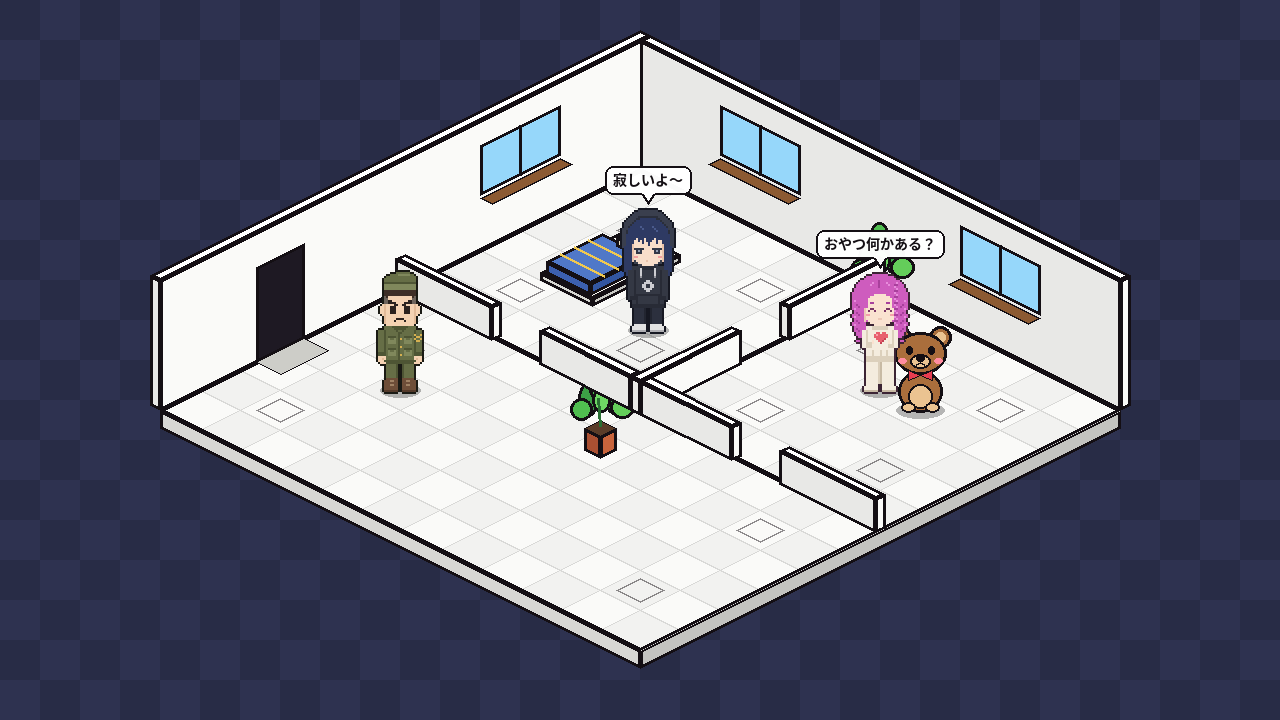
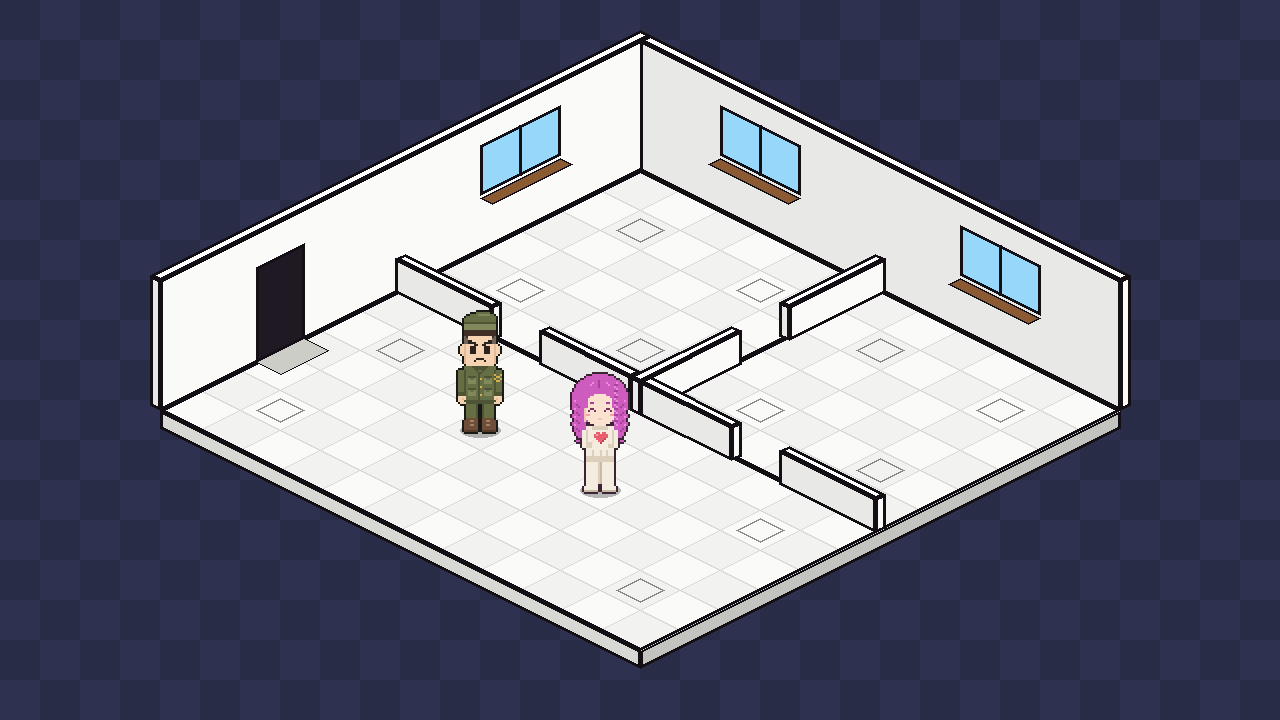
reset house: empty furniture, onizuka+nicky in foyer, speech off

diff --git a/house/swap_objects.py b/house/swap_objects.py
@@ -53,7 +53,7 @@ def swap(state_path="state/env.json",quiet=False):
   if os.environ.get("HOUSE_LABELS")=="1": base.alpha_composite(_img("layers/layer-labels.png"))  # labels off by default
   # speech bubbles: TOPMOST layer. latest line per placed character from append-only state/event_log.json
   bub=Image.new("RGBA",tuple(H["canvas"])); said=[]
-  if os.path.exists("state/event_log.json"):
+  if os.environ.get("HOUSE_SPEECH")=="1" and os.path.exists("state/event_log.json"):  # off by default
     import speech; latest=speech.latest_by_character("state/event_log.json")
     for c in cplaced:
       ev=latest.get(c["id"])

diff --git a/house/RULES.md b/house/RULES.md
@@ -1,6 +1,6 @@
 # おうちのルール（短縮版）
 道具: `python3 /workspace/house/room.py <命令> ...`（キャラid: genius onizuka nicky graphica lisa shokky sacred）
-部屋: genius（ジニアス）/ foyer（玄関）/ lisa（リサっち）
+部屋: genius（ジニアス）/ foyer（大広間）/ lisa（リサっち）
 
 ## 1回起きたら、行動は2つまで
 行動1つ = 次のどれか1回
@@ -11,7 +11,7 @@
 ## 置ける家具（これ以外は道具が断る）
 futon_japanese 布団 / cat_plush ねこ / bear_plush くま / piano ピアノ / television テレビ / potted_plant 観葉植物 / bookshelf 本棚 / computer_desk パソコン机
 - 置き方: `place <部屋> <自分のid> <好きな名札> <上の種類> <名前> <x> <y>`
-- マス目は部屋ごとに 0〜5（玄関 foyer だけ x は 0〜11）
+- マス目は部屋ごとに 0〜5（大広間 foyer だけ x は 0〜11）
 
 ## 行動に数えないもの
 - `where <id>` 自分の居場所を見る、`show <部屋>` いる部屋の様子を見る
